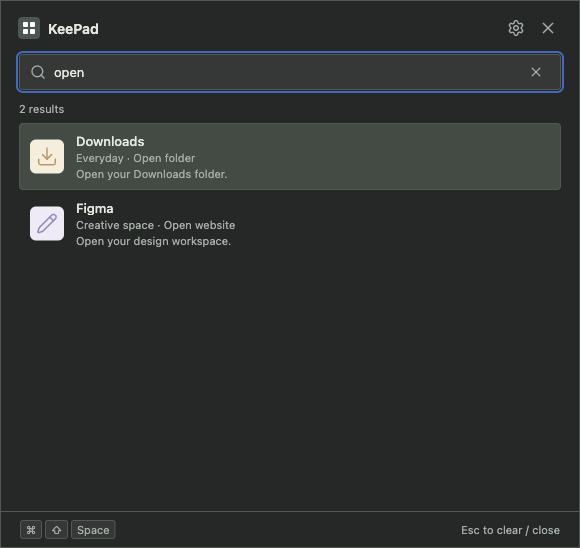
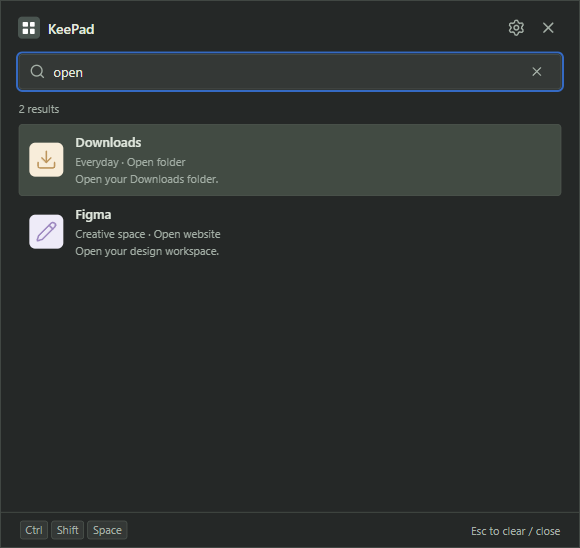
Bump version to 0.2.0
- package.json, lockfile, and browser-preview version literal to 0.2.0
- Regenerate reference and all seven screenshots (Windows 11 captures;
  Settings footer shows the version)
- Capture script fixes the editor content area at 980x700 so images
  match across hosts and the footer is not clipped on Windows
- Record 0.2.0 Windows Setup/Portable build, upgrade, and smoke evidence

diff --git a/src/api.ts b/src/api.ts
@@ -13,7 +13,7 @@ declare global {
 const key = 'keepad-browser-preview-v1';
 const info = {
   platform: navigator.platform.includes('Mac') ? 'darwin' : 'win32',
-  version: '0.1.0',
+  version: '0.2.0',
   shortcutRegistered: false,
   desktop: false,
   packaged: false,

diff --git a/docs/progress.md b/docs/progress.md
@@ -2,7 +2,7 @@
 
 ## Current status
 
-App version and dependency versions are in [generated reference](reference.md). KeePad is a functioning development app, not a signed public release. The latest change (based on `8474c36`) is the first native Windows validation, with Windows fixes and installer/portable packaging. Pads and preferences are local-only. See the latest dated entry for validation and remaining platform limits.
+App version and dependency versions are in [generated reference](reference.md). KeePad is a functioning development app, not a signed public release. Version 0.2.0 (bumped from 0.1.0 on 2026-09-25, based on `6ff7188`) follows the first native Windows validation, with Windows fixes and installer/portable packaging. Pads and preferences are local-only. See the latest dated entry for validation and remaining platform limits.
 
 | Area | State | Evidence / remaining work |
 | --- | --- | --- |
@@ -12,7 +12,7 @@ App version and dependency versions are in [generated reference](reference.md). 
 | Storage scope | Local-only; synchronization removed | Engine, IPC, UI, polling, conflict handling and runtime overrides deleted; full recovery copy before converting legacy destinations; former external folders untouched |
 | Destination repair | Implemented and exercised on macOS and Windows | Explicit metadata/access checks, local-only replacements, bounded slow probes, cancellation and stale-write protection; network filesystem behavior unverified |
 | Editing / launcher | Implemented | Cross-pad name/description search, immediate typing on summon, button menus, file-drop creation/confirmed replacement, independent appearance, visual positioning, drag/swaps, activation, preview, centering, keyboard focus, and stale pointer-hover reset covered |
-| Documentation | Audited against current source | Same-change completion/handoff rules, current guides, thirteen ADRs, generated reference, seven sample-data screenshots (macOS captures), and local checks |
+| Documentation | Audited against current source | Same-change completion/handoff rules, current guides, thirteen ADRs, generated reference, seven sample-data screenshots (Windows 11 captures of 0.2.0), and local checks |
 | Distribution | Development only | Windows NSIS installer and portable exe build locally (unsigned). Signing, notarization, clean-machine validation, license choice, and update strategy remain open |
 | GitHub | Private source repository | [mtom2k/keepad](https://github.com/mtom2k/keepad), branch `main`; no CI/CD per owner preference |
 
@@ -204,6 +204,18 @@ App version and dependency versions are in [generated reference](reference.md). 
 - Documentation: ADR 0013; architecture, data model, UX, testing, releasing, troubleshooting, maintenance, README, and this entry. Moved the misplaced 2026-09-24 entry above the next-work section, unchanged. Replaced the stale synchronization item in next work. The reference generator now lists electron-builder targets and artifact names, so the package change appears in the regenerated [reference](reference.md).
 - Screenshots are unchanged: macOS labels and layout are unaffected, and regenerating on this Windows host would change host-dependent content (see [testing](testing.md)).
 - Handoff: delivered as a direct commit on private `main` after `8474c36`, with the source-impact comparison against that base passing. The installed test copy remains on the validation machine: `%LOCALAPPDATA%\Programs\KeePad`, identity `app.keepad.desktop`. Its sample-data profile was set aside as `keepad.json.windows-test-2026-09-25`, so the next launch is a first run.
+
+### 2026-09-25 — Version 0.2.0
+
+- Starting revision `6ff7188`. Bumped the app from 0.1.0 to 0.2.0: a minor bump for new Windows packaging and behavior changes, with no schema change (schema version remains 1). Updated `package.json`, `package-lock.json`, the browser-preview literal in `src/api.ts`, the generated reference, and the README screenshot note. No Git tag or GitHub release was created; builds remain unsigned development builds.
+- Regenerated all seven screenshots on Windows 11, because the Settings footer showed 0.1.0. The capture script now fixes the editor content area at 980×700: a first Windows capture at the default window size clipped the version footer under a scrollbar. Reviewed every image for sample-only data, clipping, and version text. Updated [screenshot provenance](screenshots/README.md) and [testing](testing.md).
+- Built `KeePad-Setup-0.2.0.exe` and `KeePad-Portable-0.2.0.exe` with `npm run package:win` on the same Windows 11 x64 host. Both have stamped version resources (0.2.0.0) and report `NotSigned`. SHA-256 for this local build:
[2 lines of base64/hex data omitted]
+- Silent upgrade of the installed copy to 0.2.0 succeeded; Apps & features shows "KeePad 0.2.0". The installed sample-data profile was renamed to `keepad.json.windows-test-2026-09-25`, so the next launch is a genuine first run.
+- Playwright smoke tests used throwaway `--user-data-dir` profiles. The installed build reported 0.2.0, packaged, shortcut registered, no application menu, and Settings footer "Version 0.2.0". The portable exe ran from `%TEMP%` at version 0.2.0.0, honored `--user-data-dir`, and left the real profile untouched.
+- Build, 26 unit tests, and formatting pass. Documentation and source-impact checks pass against `6ff7188`. The full desktop suite last passed on the identical application source in `6ff7188`; this change only alters version literals and the screenshot script.
+- Handoff: delivered as a direct commit on private `main` and pushed with `6ff7188`.
 
 ## Next work / unresolved decisions
 

diff --git a/docs/testing.md b/docs/testing.md
@@ -27,7 +27,7 @@ All suites run natively on Windows. Host-specific cases:
 
 For packaged builds, drive `release/win-unpacked/KeePad.exe` (or an installed copy) with Playwright's `executablePath` and `--user-data-dir=<temporary folder>`. Packaged builds ignore `KEEPAD_TEST_DATA`. To check launch at login, simulate the portable wrapper by setting `PORTABLE_EXECUTABLE_FILE`.
 
-Regenerating documentation screenshots on Windows changes host-dependent content: `Ctrl Shift` labels instead of `⌘ ⇧`, Segoe UI instead of SF, and the checker reports the fictional Windows sample path as missing instead of foreign. Recapture on the platform used for the committed images unless the change intends to switch them.
+Documentation screenshots contain host-dependent content: shortcut labels (`Ctrl Shift` versus `⌘ ⇧`), system font, scrollbars, and whether the fictional sample paths show as missing or foreign. The capture script fixes the editor content area at 980×700 so the image size matches across hosts. The committed set is from Windows 11 (see [provenance](screenshots/README.md)). Recapture on one platform for the whole set, and after version bumps, because the Settings footer shows the version.
 
 ## Local-only conversion coverage
 
@@ -83,7 +83,7 @@ Record the OS, architecture, commands, date, and result in progress/release note
 
 ## Screenshots
 
-Run `npm run docs:screenshots` on a graphical desktop. It creates a temporary profile with starter pads, captures the editor, button context menu, launcher, launcher search, button editor, Dark Settings and the checker using fictional Mac/Windows Sample paths, and removes the profile. App appearance is explicitly Light for the first five views and Dark for Settings and destination checking; captures wait for transient toasts/tooltips to disappear. It does not execute macro actions or read the real settings file. Quit other copies using the default shortcut if the script reports a conflict. Do not silently hide errors to obtain a clean screenshot.
+Run `npm run docs:screenshots` on a graphical desktop. It creates a temporary profile with starter pads, fixes the editor content area at 980×700, captures the editor, button context menu, launcher, launcher search, button editor, Dark Settings and the checker using fictional Mac/Windows Sample paths, and removes the profile. App appearance is explicitly Light for the first five views and Dark for Settings and destination checking; captures wait for transient toasts/tooltips to disappear. It does not execute macro actions or read the real settings file. Quit other copies using the default shortcut if the script reports a conflict. Do not silently hide errors to obtain a clean screenshot.
 
 Review all generated files in [screenshots](screenshots/README.md) before committing. UI changes require refreshed relevant images; documentation-only changes do not.
 

diff --git a/docs/screenshots/README.md b/docs/screenshots/README.md
@@ -14,6 +14,8 @@ These images are generated from the actual Electron renderer using starter/sampl
 
 The sample profile explicitly uses Light for the first five views and Dark for Settings and checking destinations, making capture independent of the host's current appearance.
 
-Regenerate on a graphical desktop with `npm run docs:screenshots`. The script builds the current code, creates a temporary profile, captures these views, and cleans up. It does not execute macros or read/alter the real user's pads. Images show the application content, not OS window decorations; platform fonts and shortcuts can differ.
+Regenerate on a graphical desktop with `npm run docs:screenshots`. The script builds the current code, creates a temporary profile, captures these views, and cleans up. It does not execute macros or read/alter the real user's pads. Images show the application content, not OS window decorations. The script sets the editor's content area to 980×700 so captures are the same size on every host, but platform fonts, scrollbars, shortcut labels, and destination statuses still differ.
+
+The current set was captured on Windows 11 for version 0.2.0 (2026-09-25). It shows `Ctrl Shift Space`, Segoe UI, and the fictional Windows sample path as **Not found** next to a Mac path for **another operating system**. The Settings footer shows the app version, so recapture after each version bump.
 
 Review every image for readable labels, stale controls, clipping, unexpected warnings, and personal data before committing. Refresh affected screenshots in the same change as the interface they show. Avoid adding dates directly to image filenames, so README links remain stable.

diff --git a/README.md b/README.md
@@ -44,7 +44,7 @@ Open your compact pad from the menu bar, notification area, or keyboard shortcut
 
 </details>
 
-Screenshots use sample data from the actual app. [How they are made](docs/screenshots/README.md).
+Screenshots use sample data from the actual app, captured on Windows 11; on a Mac, shortcuts read **⌘ ⇧ Space** instead of **Ctrl Shift Space**. [How they are made](docs/screenshots/README.md).
 
 ## ✨ What you can do
 

diff --git a/docs/reference.md b/docs/reference.md
@@ -8,7 +8,7 @@ Run `npm run docs:generate` after changing package metadata, commands, dependenc
 
 | Property | Value |
 | --- | --- |
-| Version | 0.1.0 |
+| Version | 0.2.0 |
 | Product | KeePad |
 | Bundle / application ID | app.keepad.desktop |
 | State schema version | 1 |
